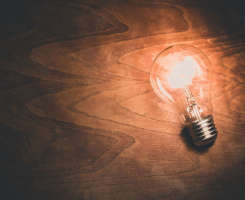
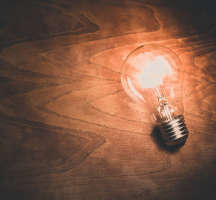
Updated from Publii

diff --git a/tips-toelatingsexamen.html b/tips-toelatingsexamen.html
@@ -19,7 +19,7 @@
                 .navbar__menu,
                 .footer {
                     font-family: 'Open Sans', sans-serif
-                }</style><link rel="stylesheet" href="https://voorbereiding-toelatingsexamen.be/assets/css/style.css?v=e01d481b07ff1b074de3c6881ef76404"><script type="application/ld+json">{"@context":"http://schema.org","@type":"Article","mainEntityOfPage":{"@type":"WebPage","@id":"https://voorbereiding-toelatingsexamen.be/tips-toelatingsexamen.html"},"headline":"Tips","datePublished":"2019-01-27T23:12","dateModified":"2019-01-28T23:12","image":{"@type":"ImageObject","url":"https://voorbereiding-toelatingsexamen.be/media/posts/11/tips-toelatingsexamen-geneeskunde-tandheelkunde.jpg","height":1061,"width":1298},"description":"<p>Ook al lijkt de zomer nog ver weg, de dag van het Toelatingsexamen Arts &amp; Tandarts zal sneller naderen dan je verwacht. </p>\n<p>Hieronder vind je enkele tips voor de dag van het examen:</p>\n","author":{"@type":"Person","name":"Anna Volhart"},"publisher":{"@type":"Organization","name":"Anna Volhart"}}</script><script src="https://voorbereiding-toelatingsexamen.be/assets/js/lazysizes.min.js?v=fcb7109aacc796048242935c33a7f9ab"></script><style></style></head><body><header class="header" id="js-header"><div><a class="logo" href="https://voorbereiding-toelatingsexamen.be">VOORBEREIDING TOELATINGSEXAMEN</a><nav class="navbar js-navbar"><button class="navbar__toggle js-toggle" aria-label="Menu" aria-controls="navigation"><span class="navbar__toggle-box"><span class="navbar__toggle-inner">Menu</span></span></button><ul id="js-navbar-menu" class="navbar__menu"><li><a href="https://voorbereiding-toelatingsexamen.be/cursus-geneeskunde-tandheelkunde.html">DE CURSUS</a></li><li class="has-submenu"><span>VAKKEN</span><ul id="js-navbar-menu" class="navbar__submenu"><li><a href="https://voorbereiding-toelatingsexamen.be/toelatingsexamen-biologie.html">Biologie</a></li><li><a href="https://voorbereiding-toelatingsexamen.be/toelatingsexamen-chemie.html">Chemie</a></li><li><a href="https://voorbereiding-toelatingsexamen.be/toelatingsexamen-fysica.html">Fysica</a></li><li><a href="https://voorbereiding-toelatingsexamen.be/toelatingsexamen-wiskunde.html">Wiskunde</a></li></ul></li><li class="has-submenu"><span>HET EXAMEN</span><ul id="js-navbar-menu" class="navbar__submenu"><li><a href="https://voorbereiding-toelatingsexamen.be/inhoud-examen-tips.html">Inhoud</a></li><li><a href="https://voorbereiding-toelatingsexamen.be/voorbereiding-toelatingsexamen-geneeskunde-tandheelkunde.html">Voorbereiding</a></li><li><a href="https://voorbereiding-toelatingsexamen.be/inschrijven-toelatingsexamen.html">Inschrijven</a></li><li><a href="https://voorbereiding-toelatingsexamen.be/resultaat-toelatingsexamen.html">Resultaat</a></li></ul></li><li class="active-parent has-submenu"><span>DE DAG ZELF</span><ul id="js-navbar-menu" class="navbar__submenu"><li><a href="https://voorbereiding-toelatingsexamen.be/locatie-toelatingsexamen.html">Locatie</a></li><li class="active"><a href="https://voorbereiding-toelatingsexamen.be/tips-toelatingsexamen.html">Tips</a></li></ul></li><li><a href="https://www.skribis.be/nl/voorbereiding-toelatingsexamen-arts-tandarts.html">BESTELLEN</a></li></ul></nav><div class="search"><div class="search__overlay" id="js-search-overlay"><div><form action="https://voorbereiding-toelatingsexamen.be/search.html" class="search__form"><input class="search__input" id="js-search-input" type="search" name="q" placeholder="search..." autofocus="autofocus"></form><button class="search__close" id="js-search-close" aria-label="Close">Close</button></div></div><button class="search__btn" id="js-search-btn" aria-label="Search"><svg class="icon" role="presentation" focusable="false"><use xlink:href="https://voorbereiding-toelatingsexamen.be/assets/svg/svg-map.svg#search"/></svg></button></div></div></header><article><div class="hero"><div class="hero__wrapper"><figure class="hero__image"><img class="hero__image-img lazyload" src="https://voorbereiding-toelatingsexamen.be/media/posts/11/responsive/tips-toelatingsexamen-geneeskunde-tandheelkunde-xs.jpg" data-srcset="https://voorbereiding-toelatingsexamen.be/media/posts/11/responsive/tips-toelatingsexamen-geneeskunde-tandheelkunde-xs.jpg 300w ,https://voorbereiding-toelatingsexamen.be/media/posts/11/responsive/tips-toelatingsexamen-geneeskunde-tandheelkunde-sm.jpg 480w ,https://voorbereiding-toelatingsexamen.be/media/posts/11/responsive/tips-toelatingsexamen-geneeskunde-tandheelkunde-md.jpg 749w ,https://voorbereiding-toelatingsexamen.be/media/posts/11/responsive/tips-toelatingsexamen-geneeskunde-tandheelkunde-xl.jpg 1200w ,https://voorbereiding-toelatingsexamen.be/media/posts/11/responsive/tips-toelatingsexamen-geneeskunde-tandheelkunde-xxl.jpg 1600w ,https://voorbereiding-toelatingsexamen.be/media/posts/11/responsive/tips-toelatingsexamen-geneeskunde-tandheelkunde-xxxl.jpg 2560w" data-sizes="auto" height="1061" width="1298" alt=""></figure><div class="hero__inner"><h1 class="hero__title">Tips</h1><div class="post__meta"></div></div></div></div><div class="main"><div class="wrapper"><div class="page post"><div class="post__inner"><div class="post__entry"><p>Ook al lijkt de zomer nog ver weg, de dag van het Toelatingsexamen Arts &amp; Tandarts zal sneller naderen dan je verwacht. </p><p>Hieronder vind je enkele tips voor de dag van het examen:</p><ul><li>Vergeet je identiteitskaart en uitnodigingsbrief niet. </li><li>Er zijn gemiddeld 5000 kandidaten voor het examen Arts, wat de nodige drukte met zich meebrengt. Houd rekening met verkeersdrukte en bouw wat reserve in.</li><li>Houd rekening met wachttijden aan het toilet tijdens de pauze.</li><li>Kijk jij vlak voor een examen graag nog wat na? Breng je samenvattingen mee om de wachttijd voor het examen te overbruggen. Uiteraard mag je hier tijdens het examen geen gebruik van maken. </li><li>Je middaglunch en drank dien je zelf te voorzien. Tijdens het examen is enkel water toegestaan. </li><li>Eigen schrijfgerief is niet toegestaan. Je krijgt een balpen, test deze best eens uit voor de tijd ingaat.</li><li>Ook een horloge is niet toegestaan. De tijd wordt geprojecteerd op een groot scherm.</li></ul></div><footer><div class="post__share"></div></footer></div></div></div></div></article><footer class="footer"><div class="wrapper"><a class="footer__logo" href="https://voorbereiding-toelatingsexamen.be">VOORBEREIDING TOELATINGSEXAMEN</a><ul class="footer__nav"><li><a href="https://voorbereiding-toelatingsexamen.be/contact.html">Contact</a></li><li><a href="https://voorbereiding-toelatingsexamen.be/disclaimer.html">Disclaimer</a></li><li><a href="https://voorbereiding-toelatingsexamen.be/auteur.html">Auteur</a></li><li><span>© 2019</span></li></ul><div class="footer__copy"></div></div><button class="footer__bttop js-footer__bttop"><svg><title>[MISSING TRANSLATION]</title><use xlink:href="https://voorbereiding-toelatingsexamen.be/assets/svg/svg-map.svg#toparrow"/></svg></button></footer><script defer="defer" src="https://voorbereiding-toelatingsexamen.be/assets/js/scripts.min.js?v=e742b9a5e76b4ccaa6e2fc18a256f793"></script><script defer="defer">var lazyFeaturedImage = function lazyFeaturedImage() {
+                }</style><link rel="stylesheet" href="https://voorbereiding-toelatingsexamen.be/assets/css/style.css?v=e01d481b07ff1b074de3c6881ef76404"><script type="application/ld+json">{"@context":"http://schema.org","@type":"Article","mainEntityOfPage":{"@type":"WebPage","@id":"https://voorbereiding-toelatingsexamen.be/tips-toelatingsexamen.html"},"headline":"Tips","datePublished":"2019-01-27T23:12","dateModified":"2019-01-28T23:16","image":{"@type":"ImageObject","url":"https://voorbereiding-toelatingsexamen.be/media/posts/11/tips-toelatingsexamen-geneeskunde-tandheelkunde.jpg","height":1059,"width":1142},"description":"<p>Ook al lijkt de zomer nog ver weg, de dag van het Toelatingsexamen Arts &amp; Tandarts zal sneller naderen dan je verwacht. </p>\n<p>Hieronder vind je enkele tips voor de dag van het examen:</p>\n","author":{"@type":"Person","name":"Anna Volhart"},"publisher":{"@type":"Organization","name":"Anna Volhart"}}</script><script src="https://voorbereiding-toelatingsexamen.be/assets/js/lazysizes.min.js?v=fcb7109aacc796048242935c33a7f9ab"></script><style></style></head><body><header class="header" id="js-header"><div><a class="logo" href="https://voorbereiding-toelatingsexamen.be">VOORBEREIDING TOELATINGSEXAMEN</a><nav class="navbar js-navbar"><button class="navbar__toggle js-toggle" aria-label="Menu" aria-controls="navigation"><span class="navbar__toggle-box"><span class="navbar__toggle-inner">Menu</span></span></button><ul id="js-navbar-menu" class="navbar__menu"><li><a href="https://voorbereiding-toelatingsexamen.be/cursus-geneeskunde-tandheelkunde.html">DE CURSUS</a></li><li class="has-submenu"><span>VAKKEN</span><ul id="js-navbar-menu" class="navbar__submenu"><li><a href="https://voorbereiding-toelatingsexamen.be/toelatingsexamen-biologie.html">Biologie</a></li><li><a href="https://voorbereiding-toelatingsexamen.be/toelatingsexamen-chemie.html">Chemie</a></li><li><a href="https://voorbereiding-toelatingsexamen.be/toelatingsexamen-fysica.html">Fysica</a></li><li><a href="https://voorbereiding-toelatingsexamen.be/toelatingsexamen-wiskunde.html">Wiskunde</a></li></ul></li><li class="has-submenu"><span>HET EXAMEN</span><ul id="js-navbar-menu" class="navbar__submenu"><li><a href="https://voorbereiding-toelatingsexamen.be/inhoud-examen-tips.html">Inhoud</a></li><li><a href="https://voorbereiding-toelatingsexamen.be/voorbereiding-toelatingsexamen-geneeskunde-tandheelkunde.html">Voorbereiding</a></li><li><a href="https://voorbereiding-toelatingsexamen.be/inschrijven-toelatingsexamen.html">Inschrijven</a></li><li><a href="https://voorbereiding-toelatingsexamen.be/resultaat-toelatingsexamen.html">Resultaat</a></li></ul></li><li class="active-parent has-submenu"><span>DE DAG ZELF</span><ul id="js-navbar-menu" class="navbar__submenu"><li><a href="https://voorbereiding-toelatingsexamen.be/locatie-toelatingsexamen.html">Locatie</a></li><li class="active"><a href="https://voorbereiding-toelatingsexamen.be/tips-toelatingsexamen.html">Tips</a></li></ul></li><li><a href="https://www.skribis.be/nl/voorbereiding-toelatingsexamen-arts-tandarts.html">BESTELLEN</a></li></ul></nav><div class="search"><div class="search__overlay" id="js-search-overlay"><div><form action="https://voorbereiding-toelatingsexamen.be/search.html" class="search__form"><input class="search__input" id="js-search-input" type="search" name="q" placeholder="search..." autofocus="autofocus"></form><button class="search__close" id="js-search-close" aria-label="Close">Close</button></div></div><button class="search__btn" id="js-search-btn" aria-label="Search"><svg class="icon" role="presentation" focusable="false"><use xlink:href="https://voorbereiding-toelatingsexamen.be/assets/svg/svg-map.svg#search"/></svg></button></div></div></header><article><div class="hero"><div class="hero__wrapper"><figure class="hero__image"><img class="hero__image-img lazyload" src="https://voorbereiding-toelatingsexamen.be/media/posts/11/responsive/tips-toelatingsexamen-geneeskunde-tandheelkunde-xs.jpg" data-srcset="https://voorbereiding-toelatingsexamen.be/media/posts/11/responsive/tips-toelatingsexamen-geneeskunde-tandheelkunde-xs.jpg 300w ,https://voorbereiding-toelatingsexamen.be/media/posts/11/responsive/tips-toelatingsexamen-geneeskunde-tandheelkunde-sm.jpg 480w ,https://voorbereiding-toelatingsexamen.be/media/posts/11/responsive/tips-toelatingsexamen-geneeskunde-tandheelkunde-md.jpg 749w ,https://voorbereiding-toelatingsexamen.be/media/posts/11/responsive/tips-toelatingsexamen-geneeskunde-tandheelkunde-xl.jpg 1200w ,https://voorbereiding-toelatingsexamen.be/media/posts/11/responsive/tips-toelatingsexamen-geneeskunde-tandheelkunde-xxl.jpg 1600w ,https://voorbereiding-toelatingsexamen.be/media/posts/11/responsive/tips-toelatingsexamen-geneeskunde-tandheelkunde-xxxl.jpg 2560w" data-sizes="auto" height="1059" width="1142" alt=""></figure><div class="hero__inner"><h1 class="hero__title">Tips</h1><div class="post__meta"></div></div></div></div><div class="main"><div class="wrapper"><div class="page post"><div class="post__inner"><div class="post__entry"><p>Ook al lijkt de zomer nog ver weg, de dag van het Toelatingsexamen Arts &amp; Tandarts zal sneller naderen dan je verwacht. </p><p>Hieronder vind je enkele tips voor de dag van het examen:</p><ul><li>Vergeet je identiteitskaart en uitnodigingsbrief niet. </li><li>Er zijn gemiddeld 5000 kandidaten voor het examen Arts, wat de nodige drukte met zich meebrengt. Houd rekening met verkeersdrukte en bouw wat reserve in.</li><li>Houd rekening met wachttijden aan het toilet tijdens de pauze.</li><li>Kijk jij vlak voor een examen graag nog wat na? Breng je samenvattingen mee om de wachttijd voor het examen te overbruggen. Uiteraard mag je hier tijdens het examen geen gebruik van maken. </li><li>Je middaglunch en drank dien je zelf te voorzien. Tijdens het examen is enkel water toegestaan. </li><li>Eigen schrijfgerief is niet toegestaan. Je krijgt een balpen, test deze best eens uit voor de tijd ingaat.</li><li>Ook een horloge is niet toegestaan. De tijd wordt geprojecteerd op een groot scherm.</li></ul></div><footer><div class="post__share"></div></footer></div></div></div></div></article><footer class="footer"><div class="wrapper"><a class="footer__logo" href="https://voorbereiding-toelatingsexamen.be">VOORBEREIDING TOELATINGSEXAMEN</a><ul class="footer__nav"><li><a href="https://voorbereiding-toelatingsexamen.be/contact.html">Contact</a></li><li><a href="https://voorbereiding-toelatingsexamen.be/disclaimer.html">Disclaimer</a></li><li><a href="https://voorbereiding-toelatingsexamen.be/auteur.html">Auteur</a></li><li><span>© 2019</span></li></ul><div class="footer__copy"></div></div><button class="footer__bttop js-footer__bttop"><svg><title>[MISSING TRANSLATION]</title><use xlink:href="https://voorbereiding-toelatingsexamen.be/assets/svg/svg-map.svg#toparrow"/></svg></button></footer><script defer="defer" src="https://voorbereiding-toelatingsexamen.be/assets/js/scripts.min.js?v=e742b9a5e76b4ccaa6e2fc18a256f793"></script><script defer="defer">var lazyFeaturedImage = function lazyFeaturedImage() {
          var lazyFeaturedImageImages = document.querySelectorAll('.hero__image-img');
 
          for (var i = 0; i < lazyFeaturedImageImages.length; i++) {

diff --git a/amp/tips-toelatingsexamen.html b/amp/tips-toelatingsexamen.html
@@ -1,4 +1,4 @@
-<!doctype html><html amp lang="en"><head><meta charset="utf-8"><title>Tips - VOORBEREIDING TOELATINGSEXAMEN</title><meta name="robots" content="noindex, follow"><meta name="viewport" content="width=device-width,minimum-scale=1,initial-scale=1"><link href="https://fonts.googleapis.com/css?family=Roboto:400,700" rel="stylesheet" type="text/css"><script async custom-element="amp-sidebar" src="https://cdn.ampproject.org/v0/amp-sidebar-0.1.js"></script><script async custom-element="amp-social-share" src="https://cdn.ampproject.org/v0/amp-social-share-0.1.js"></script><script async custom-element="amp-iframe" src="https://cdn.ampproject.org/v0/amp-iframe-0.1.js"></script><script type="application/ld+json">{"@context":"http://schema.org","@type":"Article","mainEntityOfPage":{"@type":"WebPage","@id":"https://voorbereiding-toelatingsexamen.be/amp/tips-toelatingsexamen.html"},"headline":"Tips","datePublished":"2019-01-27T23:12","dateModified":"2019-01-28T23:12","image":{"@type":"ImageObject","url":"https://voorbereiding-toelatingsexamen.be/media/posts/11/tips-toelatingsexamen-geneeskunde-tandheelkunde.jpg","height":1061,"width":1298},"description":"<p>Ook al lijkt de zomer nog ver weg, de dag van het Toelatingsexamen Arts &amp; Tandarts zal sneller naderen dan je verwacht. </p>\n<p>Hieronder vind je enkele tips voor de dag van het examen:</p>\n","author":{"@type":"Person","name":"Anna Volhart"},"publisher":{"@type":"Organization","name":"Anna Volhart"}}</script><style amp-custom>article,
+<!doctype html><html amp lang="en"><head><meta charset="utf-8"><title>Tips - VOORBEREIDING TOELATINGSEXAMEN</title><meta name="robots" content="noindex, follow"><meta name="viewport" content="width=device-width,minimum-scale=1,initial-scale=1"><link href="https://fonts.googleapis.com/css?family=Roboto:400,700" rel="stylesheet" type="text/css"><script async custom-element="amp-sidebar" src="https://cdn.ampproject.org/v0/amp-sidebar-0.1.js"></script><script async custom-element="amp-social-share" src="https://cdn.ampproject.org/v0/amp-social-share-0.1.js"></script><script async custom-element="amp-iframe" src="https://cdn.ampproject.org/v0/amp-iframe-0.1.js"></script><script type="application/ld+json">{"@context":"http://schema.org","@type":"Article","mainEntityOfPage":{"@type":"WebPage","@id":"https://voorbereiding-toelatingsexamen.be/amp/tips-toelatingsexamen.html"},"headline":"Tips","datePublished":"2019-01-27T23:12","dateModified":"2019-01-28T23:16","image":{"@type":"ImageObject","url":"https://voorbereiding-toelatingsexamen.be/media/posts/11/tips-toelatingsexamen-geneeskunde-tandheelkunde.jpg","height":1059,"width":1142},"description":"<p>Ook al lijkt de zomer nog ver weg, de dag van het Toelatingsexamen Arts &amp; Tandarts zal sneller naderen dan je verwacht. </p>\n<p>Hieronder vind je enkele tips voor de dag van het examen:</p>\n","author":{"@type":"Person","name":"Anna Volhart"},"publisher":{"@type":"Organization","name":"Anna Volhart"}}</script><style amp-custom>article,
 aside,
 footer,
 header,
@@ -553,7 +553,7 @@ aside {
   background: #039be5;
   color: #ffffff;
   padding: 1.06667rem 4%;
-  text-align: center; }</style><style amp-boilerplate>body{-webkit-animation:-amp-start 8s steps(1,end) 0s 1 normal both;-moz-animation:-amp-start 8s steps(1,end) 0s 1 normal both;-ms-animation:-amp-start 8s steps(1,end) 0s 1 normal both;animation:-amp-start 8s steps(1,end) 0s 1 normal both}@-webkit-keyframes -amp-start{from{visibility:hidden}to{visibility:visible}}@-moz-keyframes -amp-start{from{visibility:hidden}to{visibility:visible}}@-ms-keyframes -amp-start{from{visibility:hidden}to{visibility:visible}}@-o-keyframes -amp-start{from{visibility:hidden}to{visibility:visible}}@keyframes -amp-start{from{visibility:hidden}to{visibility:visible}}</style><noscript><style amp-boilerplate>body{-webkit-animation:none;-moz-animation:none;-ms-animation:none;animation:none}</style></noscript><script async src="https://cdn.ampproject.org/v0.js"></script><script custom-element="amp-animation" src="https://cdn.ampproject.org/v0/amp-animation-0.1.js" async></script><script custom-element="amp-position-observer" src="https://cdn.ampproject.org/v0/amp-position-observer-0.1.js" async></script></head><body class="bg-white"><nav class="navbar wrap-inner" id="top"><div><a on="tap:navbar-sidebar.toggle" class="navbar-sidebar-toggle" title="Menu">Menu</a> <a class="logo logo-text" href="https://voorbereiding-toelatingsexamen.be/amp">VOORBEREIDING TOELATINGSEXAMEN</a></div></nav><main class="wrap-page"><article class="post"><figure class="post-featured-image"><amp-img src="https://voorbereiding-toelatingsexamen.be/media/posts/11/tips-toelatingsexamen-geneeskunde-tandheelkunde.jpg" alt="" srcset="https://voorbereiding-toelatingsexamen.be/media/posts/11/responsive/tips-toelatingsexamen-geneeskunde-tandheelkunde-xs.jpg 300w ,https://voorbereiding-toelatingsexamen.be/media/posts/11/responsive/tips-toelatingsexamen-geneeskunde-tandheelkunde-sm.jpg 480w ,https://voorbereiding-toelatingsexamen.be/media/posts/11/responsive/tips-toelatingsexamen-geneeskunde-tandheelkunde-md.jpg 749w" sizes="(max-width: 768px) 100vw, 768px" height="1061" layout="responsive" width="1298"></amp-img></figure><div class="wrap-inner"><header class="post-header"><h1>Tips</h1></header><p>Ook al lijkt de zomer nog ver weg, de dag van het Toelatingsexamen Arts &amp; Tandarts zal sneller naderen dan je verwacht. </p><p>Hieronder vind je enkele tips voor de dag van het examen:</p><ul><li>Vergeet je identiteitskaart en uitnodigingsbrief niet. </li><li>Er zijn gemiddeld 5000 kandidaten voor het examen Arts, wat de nodige drukte met zich meebrengt. Houd rekening met verkeersdrukte en bouw wat reserve in.</li><li>Houd rekening met wachttijden aan het toilet tijdens de pauze.</li><li>Kijk jij vlak voor een examen graag nog wat na? Breng je samenvattingen mee om de wachttijd voor het examen te overbruggen. Uiteraard mag je hier tijdens het examen geen gebruik van maken. </li><li>Je middaglunch en drank dien je zelf te voorzien. Tijdens het examen is enkel water toegestaan. </li><li>Eigen schrijfgerief is niet toegestaan. Je krijgt een balpen, test deze best eens uit voor de tijd ingaat.</li><li>Ook een horloge is niet toegestaan. De tijd wordt geprojecteerd op een groot scherm.</li></ul><aside></aside></div></article></main><amp-animation id="showAnim" layout="nodisplay"><script type="application/json">{
+  text-align: center; }</style><style amp-boilerplate>body{-webkit-animation:-amp-start 8s steps(1,end) 0s 1 normal both;-moz-animation:-amp-start 8s steps(1,end) 0s 1 normal both;-ms-animation:-amp-start 8s steps(1,end) 0s 1 normal both;animation:-amp-start 8s steps(1,end) 0s 1 normal both}@-webkit-keyframes -amp-start{from{visibility:hidden}to{visibility:visible}}@-moz-keyframes -amp-start{from{visibility:hidden}to{visibility:visible}}@-ms-keyframes -amp-start{from{visibility:hidden}to{visibility:visible}}@-o-keyframes -amp-start{from{visibility:hidden}to{visibility:visible}}@keyframes -amp-start{from{visibility:hidden}to{visibility:visible}}</style><noscript><style amp-boilerplate>body{-webkit-animation:none;-moz-animation:none;-ms-animation:none;animation:none}</style></noscript><script async src="https://cdn.ampproject.org/v0.js"></script><script custom-element="amp-animation" src="https://cdn.ampproject.org/v0/amp-animation-0.1.js" async></script><script custom-element="amp-position-observer" src="https://cdn.ampproject.org/v0/amp-position-observer-0.1.js" async></script></head><body class="bg-white"><nav class="navbar wrap-inner" id="top"><div><a on="tap:navbar-sidebar.toggle" class="navbar-sidebar-toggle" title="Menu">Menu</a> <a class="logo logo-text" href="https://voorbereiding-toelatingsexamen.be/amp">VOORBEREIDING TOELATINGSEXAMEN</a></div></nav><main class="wrap-page"><article class="post"><figure class="post-featured-image"><amp-img src="https://voorbereiding-toelatingsexamen.be/media/posts/11/tips-toelatingsexamen-geneeskunde-tandheelkunde.jpg" alt="" srcset="https://voorbereiding-toelatingsexamen.be/media/posts/11/responsive/tips-toelatingsexamen-geneeskunde-tandheelkunde-xs.jpg 300w ,https://voorbereiding-toelatingsexamen.be/media/posts/11/responsive/tips-toelatingsexamen-geneeskunde-tandheelkunde-sm.jpg 480w ,https://voorbereiding-toelatingsexamen.be/media/posts/11/responsive/tips-toelatingsexamen-geneeskunde-tandheelkunde-md.jpg 749w" sizes="(max-width: 768px) 100vw, 768px" height="1059" layout="responsive" width="1142"></amp-img></figure><div class="wrap-inner"><header class="post-header"><h1>Tips</h1></header><p>Ook al lijkt de zomer nog ver weg, de dag van het Toelatingsexamen Arts &amp; Tandarts zal sneller naderen dan je verwacht. </p><p>Hieronder vind je enkele tips voor de dag van het examen:</p><ul><li>Vergeet je identiteitskaart en uitnodigingsbrief niet. </li><li>Er zijn gemiddeld 5000 kandidaten voor het examen Arts, wat de nodige drukte met zich meebrengt. Houd rekening met verkeersdrukte en bouw wat reserve in.</li><li>Houd rekening met wachttijden aan het toilet tijdens de pauze.</li><li>Kijk jij vlak voor een examen graag nog wat na? Breng je samenvattingen mee om de wachttijd voor het examen te overbruggen. Uiteraard mag je hier tijdens het examen geen gebruik van maken. </li><li>Je middaglunch en drank dien je zelf te voorzien. Tijdens het examen is enkel water toegestaan. </li><li>Eigen schrijfgerief is niet toegestaan. Je krijgt een balpen, test deze best eens uit voor de tijd ingaat.</li><li>Ook een horloge is niet toegestaan. De tijd wordt geprojecteerd op een groot scherm.</li></ul><aside></aside></div></article></main><amp-animation id="showAnim" layout="nodisplay"><script type="application/json">{
                     "duration": "200ms",
                     "fill": "both",
                     "iterations": "1",
